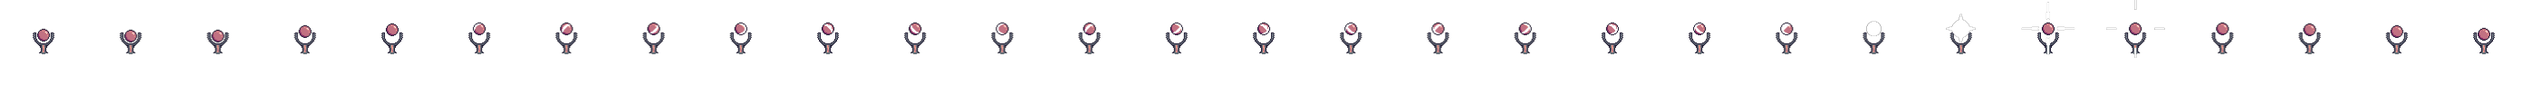
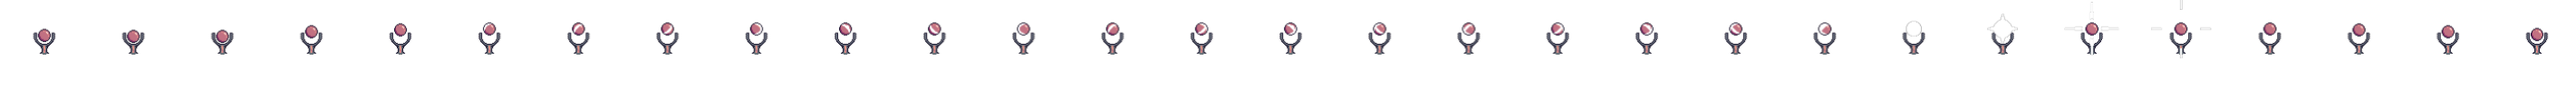
fixing animations for weapon

diff --git a/ProjectTest.py b/ProjectTest.py
@@ -180,6 +180,9 @@ cols = 14
 pixel_size = 64
 side_panel = 200
 
+health = 100
+cash = 500
+
 spawn_cooldown = 400
 
 size = (cols*pixel_size + side_panel, rows*pixel_size)
@@ -248,6 +251,8 @@ upgrade_tower_image = pygame.image.load('assets/upgrade_tower.png').convert_alph
 class Map():
     def __init__(self, data, map_image):    
         self.level = 1
+        self.health = health
+        self.cash = cash
         self.tile_map = []
         self.level_data = data
         self.image = map_image
@@ -387,6 +392,7 @@ class Weapon(pygame.sprite.Sprite):
 
         #animation variables
         self.frame_index = 0
+        self.frame_index_shooting = 0
         self.update_time = pygame.time.get_ticks()
         self.upgrade_level = 1
 
@@ -434,14 +440,14 @@ class Weapon(pygame.sprite.Sprite):
 
     def play_shooting_animation(self):
         #update image
-        self.original_image = self.animation_list_shooting[self.frame_index]
+        self.original_image = self.animation_list_shooting[self.frame_index_shooting]
         #check if enough time has passed since last update
         if pygame.time.get_ticks() - self.update_time > animation_delay:
             self.update_time = pygame.time.get_ticks()
-            self.frame_index += 1
+            self.frame_index_shooting += 1
             #check if animation has finished
-            if self.frame_index >= len(self.animation_list_shooting):
-                self.frame_index = 0
+            if self.frame_index_shooting >= len(self.animation_list_shooting):
+                self.frame_index_shooting = 0
                 self.last_shot = pygame.time.get_ticks()
                 self.target = None
     
@@ -458,8 +464,8 @@ class Weapon(pygame.sprite.Sprite):
         animation_list_shooting = []
         for x in range(animation_steps_shooting):
             if spritesheet_shooting.get_width() >= (x + 1) * 96:
-                temp = spritesheet_shooting.subsurface(x * 96, 0, 96, 96)
-                animation_list_shooting.append(temp)
+                temp_img = spritesheet_shooting.subsurface(x * 96, 0, 96, 96)
+                animation_list_shooting.append(temp_img)
         return animation_list_shooting
     
     def pick_target(self, enemy_group):
@@ -507,8 +513,8 @@ class Weapon(pygame.sprite.Sprite):
                 self.pick_target(enemy_group)
 
     def draw(self, surface):
-        self.image = pygame.transform.rotate(self.original_image, self.angle - 90)
-        self.rect = self.image.get_rect()
+        self.image = pygame.transform.rotate(self.original_image, self.angle)
+        self.rect = self.original_image.get_rect()
         self.rect.center = (self.x, self.y)
         if self.selected:
             surface.blit(self.range_image, self.range_rect)
@@ -638,6 +644,9 @@ while not done:
     tower_group.draw(screen)
 
     weapons_group.draw(screen)
+
+    for weapon in weapons_group:
+      weapon.draw(screen)
 
     #spawn enemies
     if pygame.time.get_ticks()- last_enemy_spawn > spawn_cooldown:
